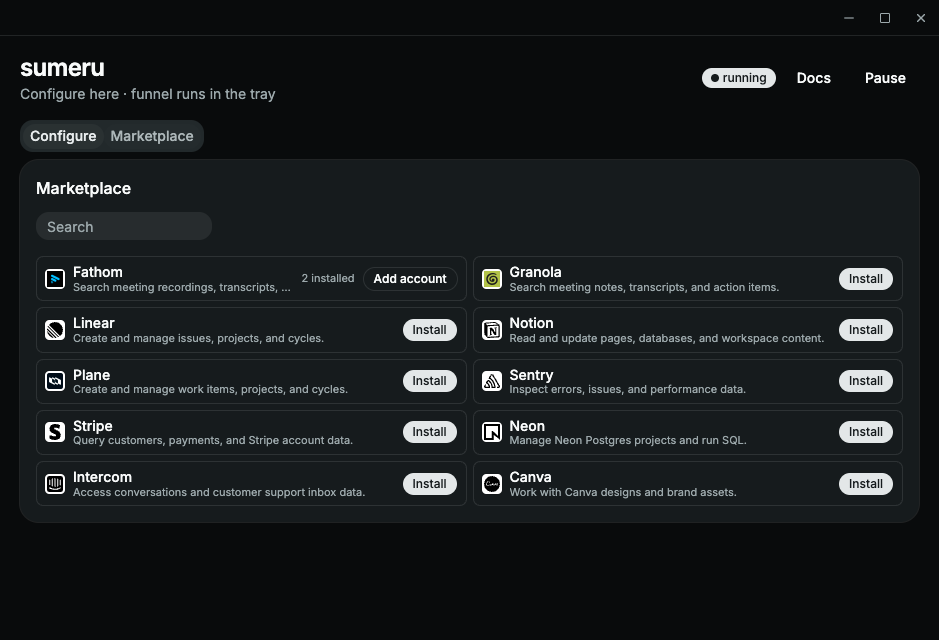
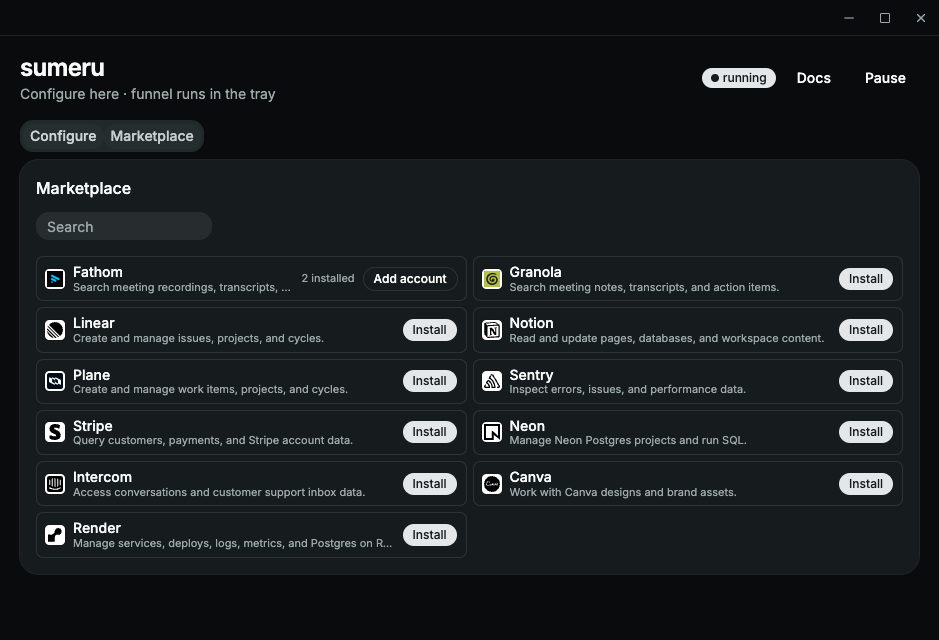
feat(marketplace): add Render (API-key install)
Render's MCP (mcp.render.com/mcp) uses OAuth only for pre-registered
clients (no DCR), but accepts a Render API key as a bearer token. Catalog
entries can now set apiKeyUrl: Install opens a dialog for the key (with a
link to create one), test-connects with it, and saves it to the keychain
only when that works. Same flow in the Svelte and SwiftUI apps.

Changed region(s): [[0.0309, 0.8125, 0.4941, 0.875], [0.1235, 0.1875, 0.2162, 0.2188], [0.0309, 0.1875, 0.0927, 0.2188]]

diff --git a/src/components/Marketplace.svelte b/src/components/Marketplace.svelte
@@ -1,7 +1,7 @@
 <!--
   @component
   Inputs: servers list, refresh callback.
-  Outputs: DCR marketplace browse, one-click install, and extra accounts per provider.
+  Outputs: marketplace browse; OAuth (DCR) or API-key install; extra accounts per provider.
 -->
 <script>
   import * as api from "$lib/api.js";
@@ -30,22 +30,28 @@
   let addOpen = $state(false);
   let adding = $state(null);
   let accountName = $state("");
+  let apiKey = $state("");
 
   const visible = $derived(filterMarketplaceEntries(entries, query));
 
   /**
-   * Inputs: catalog entry. Outputs: account-name dialog prefilled with the next free name.
+   * Inputs: catalog entry. Outputs: account dialog (name, plus API key for key-based providers),
+   * prefilled with the provider name or the next free "<Provider> N".
    */
   function onAddAccount(entry) {
     adding = entry;
-    accountName = nextAccountName(entry, servers);
+    accountName = installedServers(entry, servers).length
+      ? nextAccountName(entry, servers)
+      : entry.name;
+    apiKey = "";
     msg = "";
     addOpen = true;
   }
 
   /**
    * Inputs: catalog entry, server name.
-   * Outputs: OAuth-first install, or the account dialog when the name is taken (checked before sign-in).
+   * Outputs: OAuth-first install (or API key, checked with a test connect first); the account
+   * dialog when the name is taken (checked before sign-in).
    */
   async function onInstall(entry, name) {
     if (installingId) return;
@@ -56,29 +62,26 @@
       return;
     }
     installingId = entry.id;
-    msg = "Opening browser sign-in…";
+    msg = entry.apiKeyUrl ? "Checking API key…" : "Opening browser sign-in…";
     msgTone = "";
     const id = crypto.randomUUID();
+    const transport = { kind: "http", url: entry.url, header_keys: [], has_bearer: true };
+    const secrets = entry.apiKeyUrl ? { bearer: apiKey.trim() } : {};
     try {
-      const probe = await api.probeMcpAuth({ url: entry.url, id });
-      if (!probe?.oauth || !probe.supports_dcr) {
-        throw new Error(
-          "This server no longer supports automatic registration. Add it from Configure instead.",
-        );
+      if (entry.apiKeyUrl) {
+        await api.testDraft({ name, transport, secrets }).catch((e) => {
+          throw new Error(`Couldn't connect with that API key: ${e}`);
+        });
+      } else {
+        const probe = await api.probeMcpAuth({ url: entry.url, id });
+        if (!probe?.oauth || !probe.supports_dcr) {
+          throw new Error(
+            "This server no longer supports automatic registration. Add it from Configure instead.",
+          );
+        }
+        await api.startMcpOauth({ url: entry.url, id });
       }
-      await api.startMcpOauth({ url: entry.url, id });
-      await api.upsertServer({
-        id,
-        name,
-        enabled: true,
-        transport: {
-          kind: "http",
-          url: entry.url,
-          header_keys: [],
-          has_bearer: true,
-        },
-        secrets: {},
-      });
+      await api.upsertServer({ id, name, enabled: true, transport, secrets });
       addOpen = false;
       msg = `${name} installed`;
       msgTone = "ok";
@@ -160,7 +163,8 @@
               <Button
                 size="xs"
                 disabled={!!installingId}
-                onclick={() => onInstall(entry, entry.name)}
+                onclick={() =>
+                  entry.apiKeyUrl ? onAddAccount(entry) : onInstall(entry, entry.name)}
               >
                 {busy ? "…" : "Install"}
               </Button>
@@ -175,7 +179,11 @@
 <Dialog.Root bind:open={addOpen}>
   <Dialog.Content class="sm:max-w-md">
     <Dialog.Header>
-      <Dialog.Title>Add another {adding?.name} account</Dialog.Title>
+      <Dialog.Title>
+        {adding?.apiKeyUrl && !installedServers(adding, servers).length
+          ? `Connect ${adding.name}`
+          : `Add another ${adding?.name} account`}
+      </Dialog.Title>
     </Dialog.Header>
     <form
       class="grid gap-3"
@@ -188,11 +196,28 @@
         <Label for="account-name">Account name</Label>
         <Input id="account-name" bind:value={accountName} required />
         <p class="text-muted-foreground text-xs m-0">
-          Agents see this name in <code>list_mcps</code>. Sumeru asks
-          {adding?.name} for a fresh login; if you land in the same account,
-          sign out of {adding?.name} in your browser first.
+          Agents see this name in <code>list_mcps</code>.
+          {#if !adding?.apiKeyUrl}
+            Sumeru asks {adding?.name} for a fresh login; if you land in the same
+            account, sign out of {adding?.name} in your browser first.
+          {/if}
         </p>
       </div>
+      {#if adding?.apiKeyUrl}
+        <div class="grid gap-2">
+          <Label for="api-key">{adding.name} API key</Label>
+          <Input id="api-key" type="password" bind:value={apiKey} required autocomplete="off" />
+          <p class="text-muted-foreground text-xs m-0">
+            Stored in your keychain.
+            <button
+              type="button"
+              class="underline"
+              onclick={() => api.openUrl(adding.apiKeyUrl).catch((e) => alert(String(e)))}
+            >Create a key</button>
+            in the {adding.name} dashboard.
+          </p>
+        </div>
+      {/if}
       {#if msgTone === "err"}
         <p role="alert" class="text-destructive text-sm m-0">{msg}</p>
       {/if}
@@ -201,7 +226,7 @@
           Cancel
         </Button>
         <Button type="submit" disabled={!!installingId}>
-          {installingId ? "…" : "Sign in"}
+          {installingId ? "…" : adding?.apiKeyUrl ? "Connect" : "Sign in"}
         </Button>
       </Dialog.Footer>
     </form>

diff --git a/macos/Sources/SumeruUI/MarketplaceView.swift b/macos/Sources/SumeruUI/MarketplaceView.swift
@@ -1,12 +1,13 @@
 import SwiftUI
 import SumeruKit
 
-/// Curated OAuth MCPs: Install (browser sign-in), or Add account when one is already installed.
+/// Curated MCPs: Install (browser sign-in, or an API key for key-based providers), or Add account.
 struct MarketplaceView: View {
     let model: AppModel
     @State private var query = ""
     @State private var adding: MarketplaceEntry?
     @State private var accountName = ""
+    @State private var apiKey = ""
     @State private var addError: String?
 
     private var entries: [MarketplaceEntry] {
@@ -25,14 +26,21 @@ struct MarketplaceView: View {
         }
         .searchable(text: $query, placement: .toolbar)
         .sheet(item: $adding) { e in
+            let first = installedServers(e, model.servers).isEmpty
             Form {
                 Section {
                     TextField("Account name", text: $accountName)
+                    if e.apiKeyUrl != nil { SecureField("\(e.name) API key", text: $apiKey) }
                 } header: {
-                    Text("Add another \(e.name) account")
+                    Text(e.apiKeyUrl != nil && first ? "Connect \(e.name)" : "Add another \(e.name) account")
                 } footer: {
-                    Text(addError ?? "If sign-in returns the same account, sign out of \(e.name) in your browser first, or use another browser profile.")
-                        .foregroundStyle(addError == nil ? Color.secondary : Color.red)
+                    VStack(alignment: .leading, spacing: 4) {
+                        if let url = e.apiKeyUrl.flatMap(URL.init(string:)) {
+                            Link("Create a key in the \(e.name) dashboard", destination: url)
+                        }
+                        Text(addError ?? (e.apiKeyUrl != nil ? "Stored in your keychain after a test connect succeeds." : "If sign-in returns the same account, sign out of \(e.name) in your browser first, or use another browser profile."))
+                            .foregroundStyle(addError == nil ? Color.secondary : Color.red)
+                    }
                 }
             }
             .formStyle(.grouped)
@@ -40,8 +48,9 @@ struct MarketplaceView: View {
             .toolbar {
                 ToolbarItem(placement: .cancellationAction) { Button("Cancel") { adding = nil } }
                 ToolbarItem(placement: .confirmationAction) {
-                    Button("Sign In & Add") { Task { await install(e, name: accountName) } }
-                        .disabled(accountName.trimmingCharacters(in: .whitespaces).isEmpty || model.installing != nil)
+                    Button(e.apiKeyUrl != nil ? "Connect" : "Sign In & Add") { Task { await install(e, name: accountName) } }
+                        .disabled(accountName.trimmingCharacters(in: .whitespaces).isEmpty || model.installing != nil
+                                  || (e.apiKeyUrl != nil && apiKey.trimmingCharacters(in: .whitespaces).isEmpty))
                 }
             }
         }
@@ -60,9 +69,10 @@ struct MarketplaceView: View {
                         Spacer()
                         if model.installing == e.id { ProgressView().controlSize(.small) }
                         if count > 0 {
-                            Button("Add Account") { addError = nil; accountName = nextAccountName(e, model.servers); adding = e }
+                            Button("Add Account") { open(e) }
                         } else {
-                            Button("Install") { Task { await install(e, name: e.name) } }.buttonStyle(.borderedProminent)
+                            Button("Install") { if e.apiKeyUrl != nil { open(e) } else { Task { await install(e, name: e.name) } } }
+                                .buttonStyle(.borderedProminent)
                         }
                     }
                     .disabled(model.installing != nil)
@@ -72,9 +82,17 @@ struct MarketplaceView: View {
         }
     }
 
+    /// Inputs: entry. Outputs: account sheet, named after the provider or the next free "<Provider> N".
+    private func open(_ e: MarketplaceEntry) {
+        addError = nil
+        apiKey = ""
+        accountName = installedServers(e, model.servers).isEmpty ? e.name : nextAccountName(e, model.servers)
+        adding = e
+    }
+
     /// Inputs: entry, account name. Outputs: installed (sheet closed) or the error shown.
     private func install(_ e: MarketplaceEntry, name: String) async {
-        if let err = await model.install(e, name: name.trimmingCharacters(in: .whitespaces)) {
+        if let err = await model.install(e, name: name.trimmingCharacters(in: .whitespaces), apiKey: apiKey) {
             if adding != nil { addError = err } else { model.error = err }
         } else {
             adding = nil

diff --git a/macos/Sources/SumeruUI/AppModel.swift b/macos/Sources/SumeruUI/AppModel.swift
@@ -118,17 +118,24 @@ public final class AppModel {
         } catch { return error.localizedDescription }
     }
 
-    /// Inputs: catalog entry, account name. Outputs: nil when installed (OAuth first), else the error.
-    func install(_ entry: MarketplaceEntry, name: String) async -> String? {
+    /// Inputs: catalog entry, account name, API key (key-based providers only).
+    /// Outputs: nil when installed (after OAuth, or a successful test connect with the key), else the error.
+    func install(_ entry: MarketplaceEntry, name: String, apiKey: String = "") async -> String? {
         if nameTaken(servers, name) { return "Another MCP is already named “\(name)”. Pick a different name." }
         installing = entry.id
         defer { installing = nil }
         let id = UUID().uuidString.lowercased()
-        guard let p = await probe(url: entry.url, id: id), p.oauth, p.supportsDcr else {
-            return "This server no longer supports automatic registration. Add it from MCPs instead."
+        let transport = Transport.http(url: entry.url, headerKeys: [], hasBearer: true)
+        let secrets = entry.apiKeyUrl == nil ? Secrets() : Secrets(bearer: apiKey.trimmingCharacters(in: .whitespaces))
+        if entry.apiKeyUrl != nil {
+            do { try await engine.run("test_draft", DraftParams(name: name, transport: transport, secrets: secrets)) } catch { return "Couldn't connect with that API key: \(error.localizedDescription)" }
+        } else {
+            guard let p = await probe(url: entry.url, id: id), p.oauth, p.supportsDcr else {
+                return "This server no longer supports automatic registration. Add it from MCPs instead."
+            }
+            if let err = await signIn(url: entry.url, id: id) { return err }
         }
-        if let err = await signIn(url: entry.url, id: id) { return err }
-        let ok = await save(id: id, name: name, enabled: true, transport: .http(url: entry.url, headerKeys: [], hasBearer: true), secrets: Secrets())
+        let ok = await save(id: id, name: name, enabled: true, transport: transport, secrets: secrets)
         return ok ? nil : error
     }
 

diff --git a/src/lib/marketplace-icons.js b/src/lib/marketplace-icons.js
@@ -6,6 +6,7 @@ import linear from "../assets/marketplace/linear.svg";
 import neon from "../assets/marketplace/neon.svg";
 import notion from "../assets/marketplace/notion.svg";
 import plane from "../assets/marketplace/plane.png";
+import render from "../assets/marketplace/render.svg";
 import sentry from "../assets/marketplace/sentry.svg";
 import stripe from "../assets/marketplace/stripe.svg";
 import { marketplaceIdForUrl } from "./marketplace.js";
@@ -19,6 +20,7 @@ const icons = {
   neon,
   notion,
   plane,
+  render,
   sentry,
   stripe,
 };

diff --git a/src/lib/marketplace.test.js b/src/lib/marketplace.test.js
@@ -24,10 +24,17 @@ describe("marketplace helpers", () => {
         "neon",
         "notion",
         "plane",
+        "render",
         "sentry",
         "stripe",
       ],
     );
+  });
+
+  it("marks API-key providers with an https key page", () => {
+    const keyed = listMarketplaceEntries().filter((e) => e.apiKeyUrl);
+    assert.deepEqual(keyed.map((e) => e.id), ["render"]);
+    for (const e of keyed) assert.match(e.apiKeyUrl, /^https:\/\//);
   });
 
   it("lists every installed account for an entry URL", () => {

diff --git a/macos/Tests/SumeruKitTests/SumeruKitTests.swift b/macos/Tests/SumeruKitTests/SumeruKitTests.swift
@@ -118,6 +118,7 @@ let servers = ["a", "b", "c"].map { Server(id: $0, name: $0, enabled: true, tran
         let file = URL(filePath: #filePath).deletingLastPathComponent().appending(path: "../../../src/lib/marketplace.json")
         let entries = try decodeMarketplace(Data(contentsOf: file))
         #expect(entries.contains { $0.id == "fathom" } && entries.allSatisfy { $0.url.hasPrefix("https://") })
+        #expect(entries.filter { $0.apiKeyUrl != nil }.map(\.id) == ["render"])
     }
 
     @Test func drafts() throws {

diff --git a/macos/Sources/SumeruKit/Models.swift b/macos/Sources/SumeruKit/Models.swift
@@ -113,6 +113,8 @@ public struct MarketplaceEntry: Codable, Equatable, Identifiable, Sendable {
     public var name: String
     public var description: String
     public var url: String
+    /// Set for API-key providers (e.g. Render): where to create a key. Nil means OAuth (DCR).
+    public var apiKeyUrl: String?
 }
 
 /// Inputs: marketplace.json data. Outputs: its provider entries.

diff --git a/docs/marketplace.md b/docs/marketplace.md
@@ -1,6 +1,6 @@
 # Marketplace
 
-The **Marketplace** tab lists a bundled curated catalog of HTTP MCPs that support Dynamic Client Registration (DCR).
+The **Marketplace** tab lists a bundled curated catalog of HTTP MCPs. Most sign in with browser OAuth (Dynamic Client Registration); a few, like **Render**, use an API key instead.
 
 ![Marketplace tab with curated providers and Install buttons](/images/marketplace.png)
 
@@ -10,6 +10,10 @@ The **Marketplace** tab lists a bundled curated catalog of HTTP MCPs that suppor
 2. Find a provider and click **Install**
 3. Complete browser OAuth
 4. Sumeru saves the MCP only if sign-in succeeds
+
+API-key providers (Render) open a dialog instead: paste a key (the dialog links to the provider's key page), click **Connect**. Sumeru test-connects with the key first and saves it to your keychain only if that works.
+
+![Connect Render dialog with account name, API key, and a link to create a key](/images/marketplace-api-key.png)
 
 ## Add another account
 
